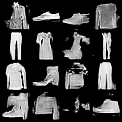
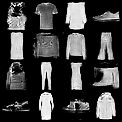
version_4_last

diff --git a/train.py b/train.py
@@ -19,7 +19,7 @@ def main():
     latent_dim = 100
     batch_size = 128
     epochs = 30
-    lr = 0.0002
+    lr=1e-4
 
     transform = transforms.Compose([
         transforms.ToTensor(),
@@ -50,10 +50,11 @@ def main():
 
     # optimizer_g = optim.Adam(generator.parameters(), lr=lr, betas=(0.5, 0.999))
     # optimizer_d = optim.Adam(discriminator.parameters(), lr=lr, betas=(0.5, 0.999))
-    optimizer_g = optim.RMSprop(generator.parameters(), lr=lr)
-    optimizer_c = optim.RMSprop(critic.parameters(), lr=lr)
+    # optimizer_g = optim.RMSprop(generator.parameters(), lr=lr)
+    # optimizer_c = optim.RMSprop(critic.parameters(), lr=lr)
+    optimizer_g = optim.Adam(generator.parameters(), lr=lr, betas=(0.0, 0.9))
+    optimizer_c = optim.Adam(critic.parameters(), lr=lr, betas=(0.0, 0.9))
     fixed_noise = torch.randn(16, latent_dim, 1, 1, device=device)
-    n_critic = 5
     # for epoch in range(epochs):
     #     for batch_idx, (real_images, _) in enumerate(dataloader):
     #         real_images = real_images.to(device)
@@ -93,14 +94,65 @@ def main():
     #                 f"Loss D: {loss_d.item():.4f}, Loss G: {loss_g.item():.4f}"
     #             )
     #
-        # with torch.no_grad():
-        #     fake_samples = generator(fixed_noise)
-        #     save_generated_images(fake_samples, epoch + 1)
+    # with torch.no_grad():
+    #     fake_samples = generator(fixed_noise)
+    #     save_generated_images(fake_samples, epoch + 1)
+
+  # WGAN
+
     n_critic = 5  # 每次训练5次critic
+
+    # for epoch in range(epochs):
+    #     for batch_idx, (real_images, _) in enumerate(dataloader):
+    #
+    #         real_images = real_images.to(device)
+    #         batch_size_curr = real_images.size(0)
+    #
+    #         # ---------------------
+    #         # Train Critic
+    #         # ---------------------
+    #         for _ in range(n_critic):
+    #             noise = torch.randn(batch_size_curr, latent_dim, 1, 1, device=device)
+    #             fake_images = generator(noise)
+    #
+    #             critic_real = critic(real_images)
+    #             critic_fake = critic(fake_images.detach())
+    #
+    #             loss_c = -(torch.mean(critic_real) - torch.mean(critic_fake))
+    #
+    #             optimizer_c.zero_grad()
+    #             loss_c.backward()
+    #             optimizer_c.step()
+    #
+    #             # weight clipping
+    #             for p in critic.parameters():
+    #                 p.data.clamp_(-0.01, 0.01)
+    #
+    #         # ---------------------
+    #         # Train Generator
+    #         # ---------------------
+    #         noise = torch.randn(batch_size_curr, latent_dim, 1, 1, device=device)
+    #         fake_images = generator(noise)
+    #
+    #         loss_g = -torch.mean(critic(fake_images))
+    #
+    #         optimizer_g.zero_grad()
+    #         loss_g.backward()
+    #         optimizer_g.step()
+    #
+    #         if batch_idx % 100 == 0:
+    #             print(
+    #                 f"Epoch [{epoch + 1}/{epochs}] "
+    #                 f"Batch [{batch_idx}/{len(dataloader)}] "
+    #                 f"Loss C: {loss_c.item():.4f}, Loss G: {loss_g.item():.4f}"
+    #             )
+
+    # WGAN-GP
+    n_critic = 5
+    lambda_gp = 10
 
     for epoch in range(epochs):
         for batch_idx, (real_images, _) in enumerate(dataloader):
-
             real_images = real_images.to(device)
             batch_size_curr = real_images.size(0)
 
@@ -114,15 +166,13 @@ def main():
                 critic_real = critic(real_images)
                 critic_fake = critic(fake_images.detach())
 
-                loss_c = -(torch.mean(critic_real) - torch.mean(critic_fake))
+                gp = gradient_penalty(critic, real_images, fake_images.detach(), device)
+
+                loss_c = -(torch.mean(critic_real) - torch.mean(critic_fake)) + lambda_gp * gp
 
                 optimizer_c.zero_grad()
                 loss_c.backward()
                 optimizer_c.step()
-
-                # weight clipping
-                for p in critic.parameters():
-                    p.data.clamp_(-0.01, 0.01)
 
             # ---------------------
             # Train Generator
@@ -140,7 +190,9 @@ def main():
                 print(
                     f"Epoch [{epoch + 1}/{epochs}] "
                     f"Batch [{batch_idx}/{len(dataloader)}] "
-                    f"Loss C: {loss_c.item():.4f}, Loss G: {loss_g.item():.4f}"
+                    f"Loss C: {loss_c.item():.4f}, "
+                    f"Loss G: {loss_g.item():.4f}, "
+                    f"GP: {gp.item():.4f}"
                 )
             with torch.no_grad():
                 fake_samples = generator(fixed_noise)
@@ -151,6 +203,7 @@ def main():
     torch.save(critic.state_dict(), "checkpoints/critic.pth")
     print("Training finished.")
 
+
 def weights_init(m):
     classname = m.__class__.__name__
     if classname.find("Conv") != -1:
@@ -159,6 +212,31 @@ def weights_init(m):
         nn.init.normal_(m.weight.data, 1.0, 0.02)
         nn.init.constant_(m.bias.data, 0)
 
+
+def gradient_penalty(critic, real, fake, device):
+    batch_size = real.size(0)
+
+    epsilon = torch.rand(batch_size, 1, 1, 1, device=device)
+    interpolated = epsilon * real + (1 - epsilon) * fake
+    interpolated.requires_grad_(True)
+
+    mixed_scores = critic(interpolated)
+
+    gradient = torch.autograd.grad(
+        inputs=interpolated,
+        outputs=mixed_scores,
+        grad_outputs=torch.ones_like(mixed_scores),
+        create_graph=True,
+        retain_graph=True,
+        only_inputs=True
+    )[0]
+
+    gradient = gradient.view(batch_size, -1)
+    gradient_norm = gradient.norm(2, dim=1)
+
+    gp = torch.mean((gradient_norm - 1) ** 2)
+    return gp
+
+
 if __name__ == "__main__":
     main()
-

diff --git a/models/discriminator.py b/models/discriminator.py
@@ -1,3 +1,4 @@
+# DCGAN
 # import torch.nn as nn
 #
 #
@@ -23,6 +24,32 @@
 #
 #     def forward(self, x):
 #         return self.net(x).view(-1)
+# WGAN
+# import torch.nn as nn
+#
+#
+# class Critic(nn.Module):
+#     def __init__(self, img_channels=1, feature_d=64):
+#         super().__init__()
+#
+#         self.net = nn.Sequential(
+#             nn.Conv2d(img_channels, feature_d, 4, 2, 1, bias=False),
+#             nn.LeakyReLU(0.2, inplace=True),
+#
+#             nn.Conv2d(feature_d, feature_d * 2, 4, 2, 1, bias=False),
+#             nn.BatchNorm2d(feature_d * 2),
+#             nn.LeakyReLU(0.2, inplace=True),
+#
+#             nn.Conv2d(feature_d * 2, feature_d * 4, 3, 2, 1, bias=False),
+#             nn.BatchNorm2d(feature_d * 4),
+#             nn.LeakyReLU(0.2, inplace=True),
+#
+#             nn.Conv2d(feature_d * 4, 1, 4, 1, 0, bias=False)
+#         )
+#
+#     def forward(self, x):
+#         return self.net(x).view(-1)
+
 
 import torch.nn as nn
 
@@ -36,11 +63,11 @@ class Critic(nn.Module):
             nn.LeakyReLU(0.2, inplace=True),
 
             nn.Conv2d(feature_d, feature_d * 2, 4, 2, 1, bias=False),
-            nn.BatchNorm2d(feature_d * 2),
+            nn.InstanceNorm2d(feature_d * 2, affine=True),
             nn.LeakyReLU(0.2, inplace=True),
 
             nn.Conv2d(feature_d * 2, feature_d * 4, 3, 2, 1, bias=False),
-            nn.BatchNorm2d(feature_d * 4),
+            nn.InstanceNorm2d(feature_d * 4, affine=True),
             nn.LeakyReLU(0.2, inplace=True),
 
             nn.Conv2d(feature_d * 4, 1, 4, 1, 0, bias=False)
